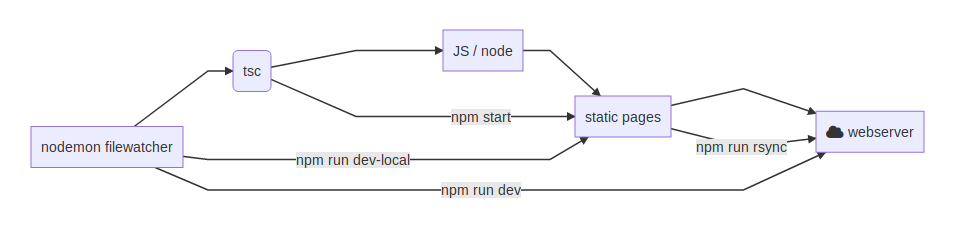
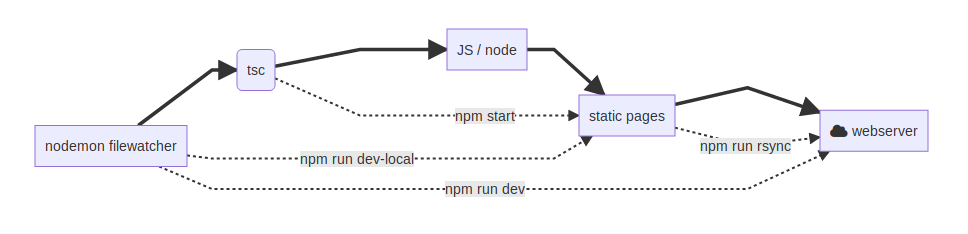
update pipeline.png (stipled arrows, and THICC arrows)

diff --git a/coolthings/src/markdown/diagrams.md b/coolthings/src/markdown/diagrams.md
@@ -50,12 +50,12 @@ gantt
 
 <div class="mermaid">
     graph LR
-    A[nodemon filewatcher] --> B(tsc)
-    B --> C[JS / node]
-    C --> E[static pages]
-    E --> F[fa:fa-cloud webserver]
-    B --> |npm start| E
-    A-->|npm run dev-local| E
-    A -->|npm run dev| F
-    E -->|npm run rsync|F
+    A[nodemon filewatcher] ==> B(tsc)
+    B ==> C[JS / node]
+    C ==> E[static pages]
+    E ==> F[fa:fa-cloud webserver]
+    B -.-> |npm start| E
+    A -.->|npm run dev-local| E
+    A -.->|npm run dev| F
+    E -.->|npm run rsync|F
 </div>
